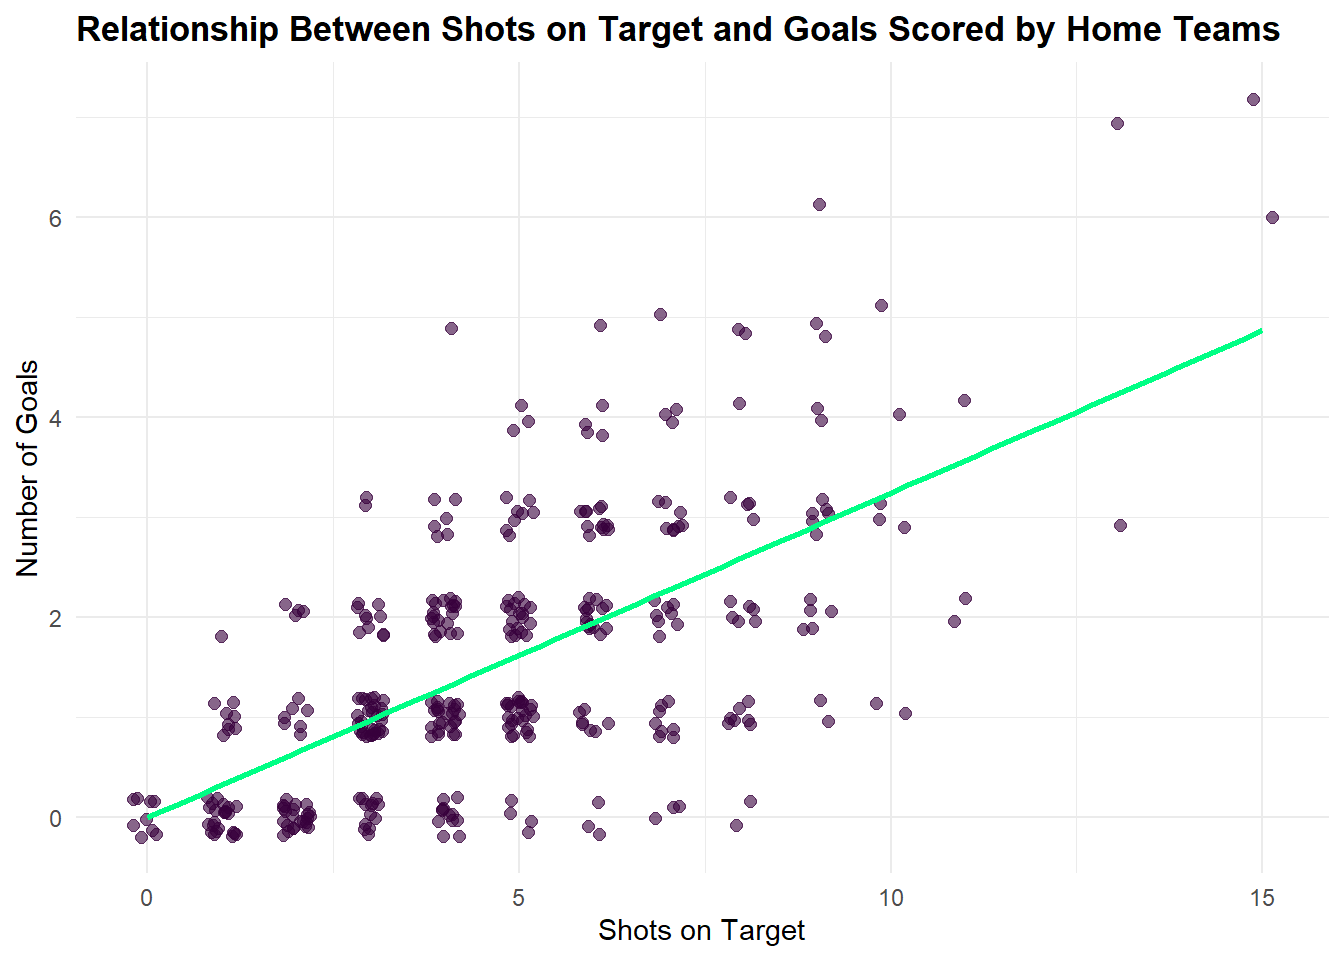
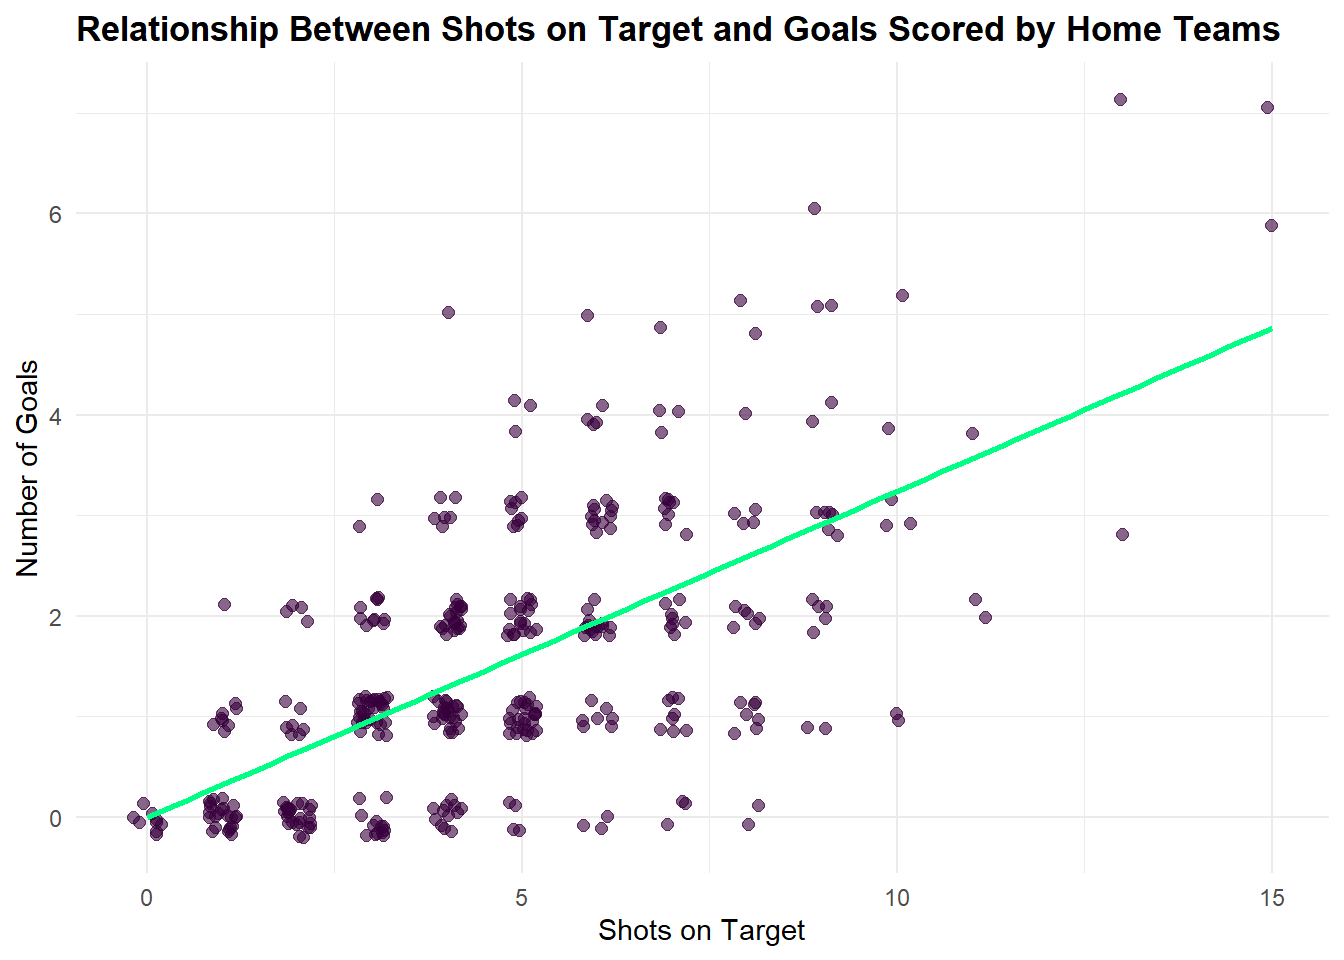
render premier league analysis with tidytuesdayR installed

diff --git a/docs/Premier League Match Analysis.html b/docs/Premier League Match Analysis.html
@@ -353,7 +353,9 @@ ul.task-list li input[type="checkbox"] {
 </header>
 
 
-<p>## Introduction The Premier League is widely regarded as the most competitive domestic football league in the world, where fine margins separate the top of the table from the bottom. This analysis explores match-level data from the 2021/22 Premier League season to understand what actually drives goals and match outcomes. Specifically, it investigates three questions: Does shooting more lead to scoring more? Does shot accuracy matter more than shot volume? And does playing at home provide a measurable scoring advantage? <strong>**Key</strong> question: What factors are most associated with scoring goals in the Premier League, and how much of an edge does home advantage really provide?</p>
+<p>## Introduction</p>
+<p>The Premier League is widely regarded as the most competitive domestic football league in the world, where fine margins separate the top of the table from the bottom. This analysis explores match-level data from the 2021/22 Premier League season to understand what actually drives goals and match outcomes. Specifically, it investigates three questions: Does shooting more lead to scoring more? Does shot accuracy matter more than shot volume? And does playing at home provide a measurable scoring advantage?</p>
+<p><strong>**Key</strong> question: What factors are most associated with scoring goals in the Premier League, and how much of an edge does home advantage really provide?</p>
 <p>## Shots vs.&nbsp;Goals</p>
 <div class="cell">
 <div class="cell-output-display">
@@ -390,7 +392,8 @@ ul.task-list li input[type="checkbox"] {
 </div>
 <p>The final chart compares the average number of goals scored by home teams versus away teams across the entire season. Home teams scored more goals on average than away teams, confirming the long-discussed “home advantage” effect in football. This is likely driven by a combination of factors not captured in this dataset, including crowd support, travel fatigue for the away side, and greater familiarity with the pitch and surroundings.<br>
 <br>
-## Conclusion<br>
+## Conclusion</p>
+<p><br>
 Taken together, these three analyses suggest that goals in the Premier League are driven less by sheer shot volume and more by shot quality and contextual factors like home advantage. While teams that take more shots do tend to score more, the relationship strengthens considerably when looking specifically at shots on target, indicating that precision matters more than persistence. Additionally, the consistent home scoring advantage reinforces why managers and analysts place so much emphasis on home form when evaluating a team’s title or relegation chances. Ultimately, the data tells a clear story: in the Premier League, quality of opportunity and home support are just as important as the raw number of attempts a team generates.<br>
 <br>
 ## Reference</p>